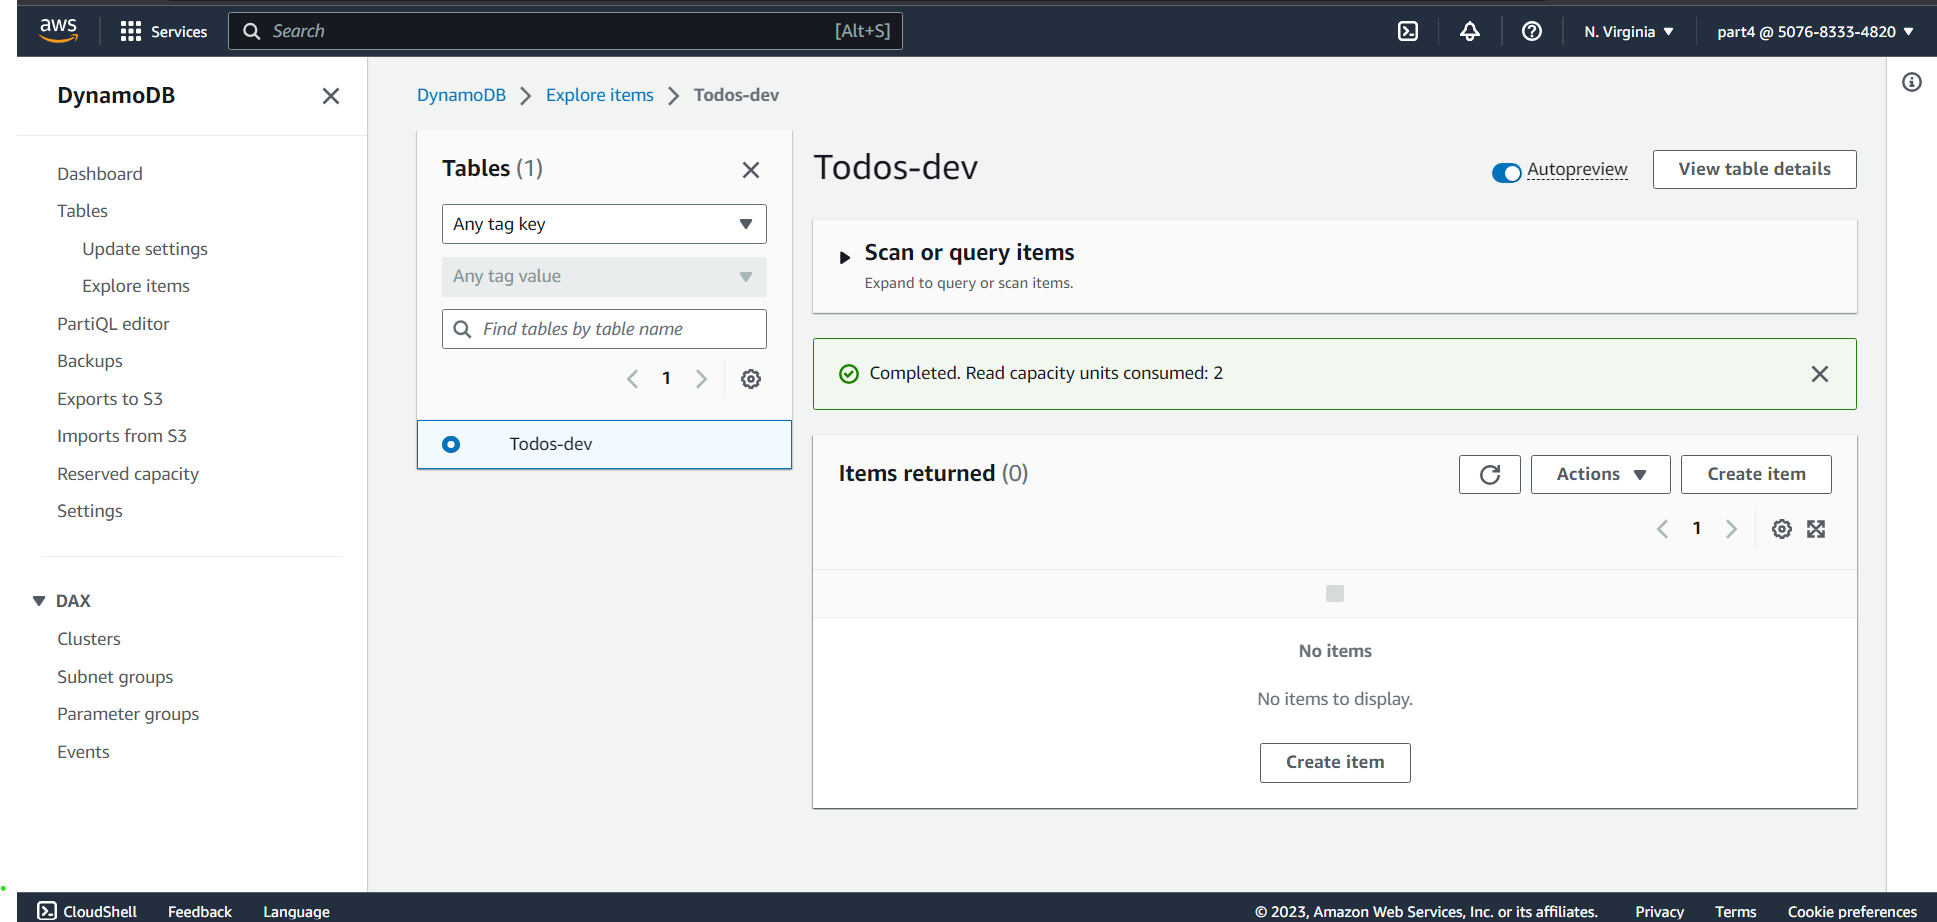
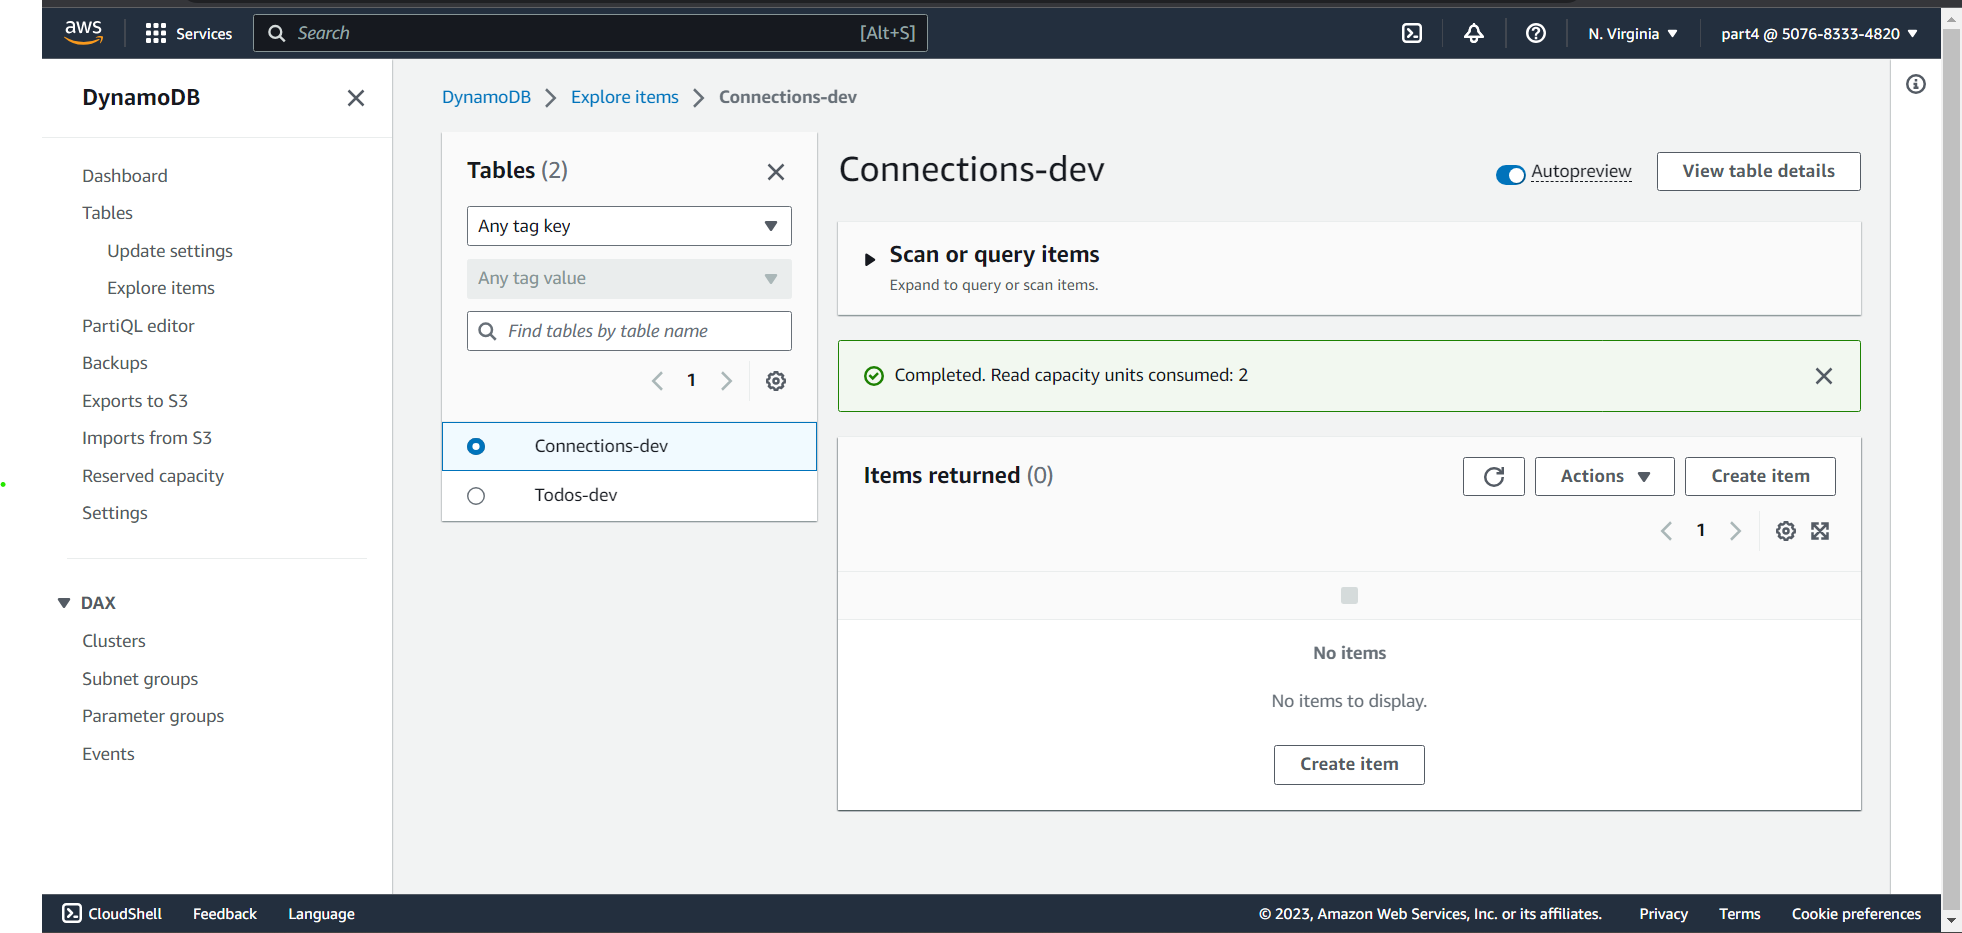
update

diff --git a/backend/src/lambda/websocket/connect.ts b/backend/src/lambda/websocket/connect.ts
@@ -1,0 +1,42 @@
+import {
+  APIGatewayProxyEvent,
+  APIGatewayProxyHandler,
+  APIGatewayProxyResult,
+} from "aws-lambda";
+import * as AWS from "aws-sdk";
+import "source-map-support/register";
+import { createLogger } from "../../utils/logger";
+
+const logger = createLogger("createTodoHandler");
+
+const docClient = new AWS.DynamoDB.DocumentClient();
+
+const connectionsTable = process.env.CONNECTIONS_TABLE;
+
+export const handler: APIGatewayProxyHandler = async (
+  event: APIGatewayProxyEvent
+): Promise<APIGatewayProxyResult> => {
+  logger.info("Websocket connect", event);
+
+  const connectionId = event.requestContext.connectionId;
+  const timestamp = new Date().toISOString();
+
+  const item = {
+    id: connectionId,
+    timestamp,
+  };
+
+  logger.info("Storing item", item);
+
+  await docClient
+    .put({
+      TableName: connectionsTable,
+      Item: item,
+    })
+    .promise();
+
+  return {
+    statusCode: 200,
+    body: "",
+  };
+};

diff --git a/backend/src/lambda/websocket/disconnect.ts b/backend/src/lambda/websocket/disconnect.ts
@@ -1,0 +1,39 @@
+import {
+  APIGatewayProxyEvent,
+  APIGatewayProxyHandler,
+  APIGatewayProxyResult,
+} from "aws-lambda";
+import * as AWS from "aws-sdk";
+import "source-map-support/register";
+import { createLogger } from "../../utils/logger";
+
+const logger = createLogger("createTodoHandler");
+
+const docClient = new AWS.DynamoDB.DocumentClient();
+
+const connectionsTable = process.env.CONNECTIONS_TABLE;
+
+export const handler: APIGatewayProxyHandler = async (
+  event: APIGatewayProxyEvent
+): Promise<APIGatewayProxyResult> => {
+  logger.info("Websocket disconnect", event);
+
+  const connectionId = event.requestContext.connectionId;
+  const key = {
+    id: connectionId,
+  };
+
+  logger.info("Removing item with key", key);
+
+  await docClient
+    .delete({
+      TableName: connectionsTable,
+      Key: key,
+    })
+    .promise();
+
+  return {
+    statusCode: 200,
+    body: "",
+  };
+};
